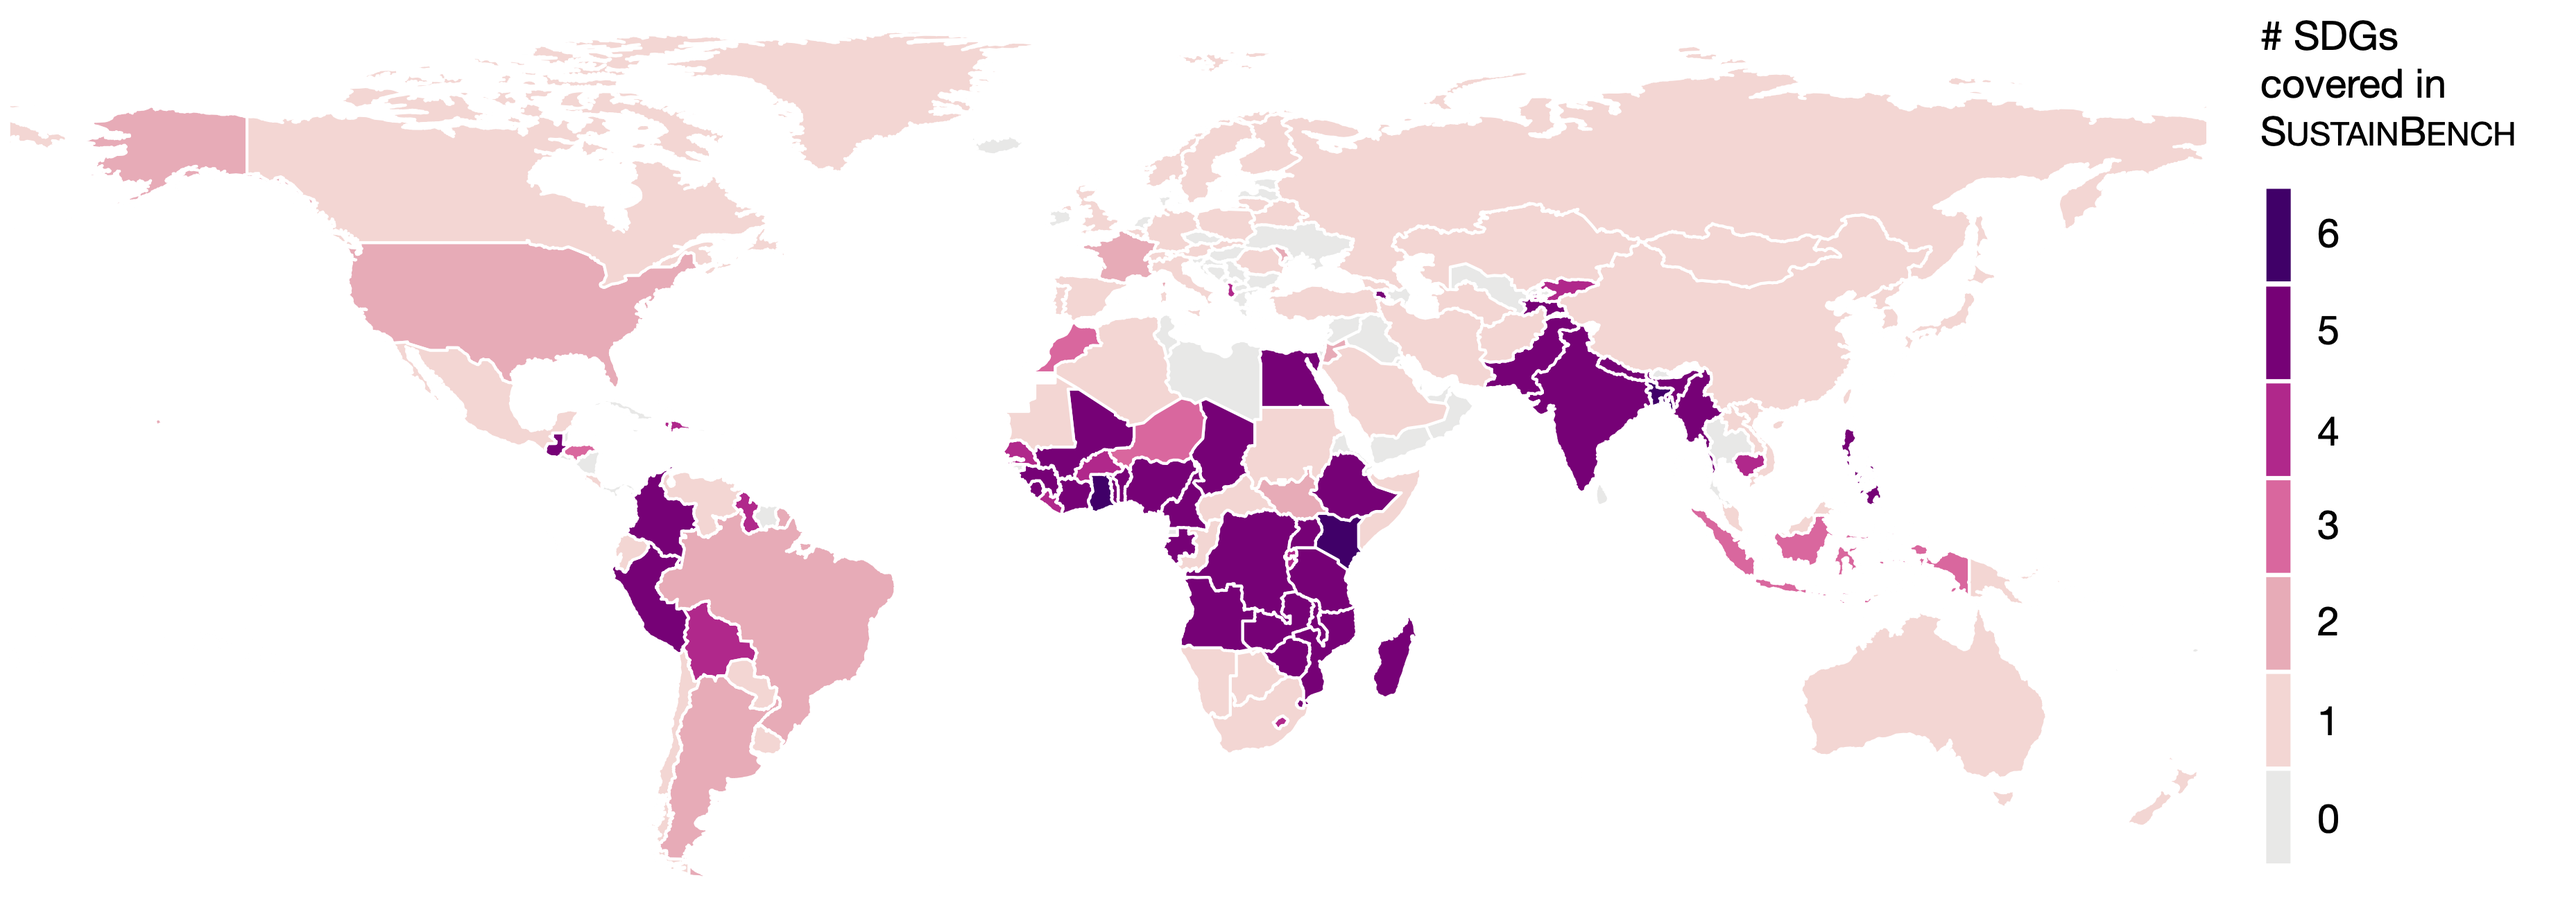
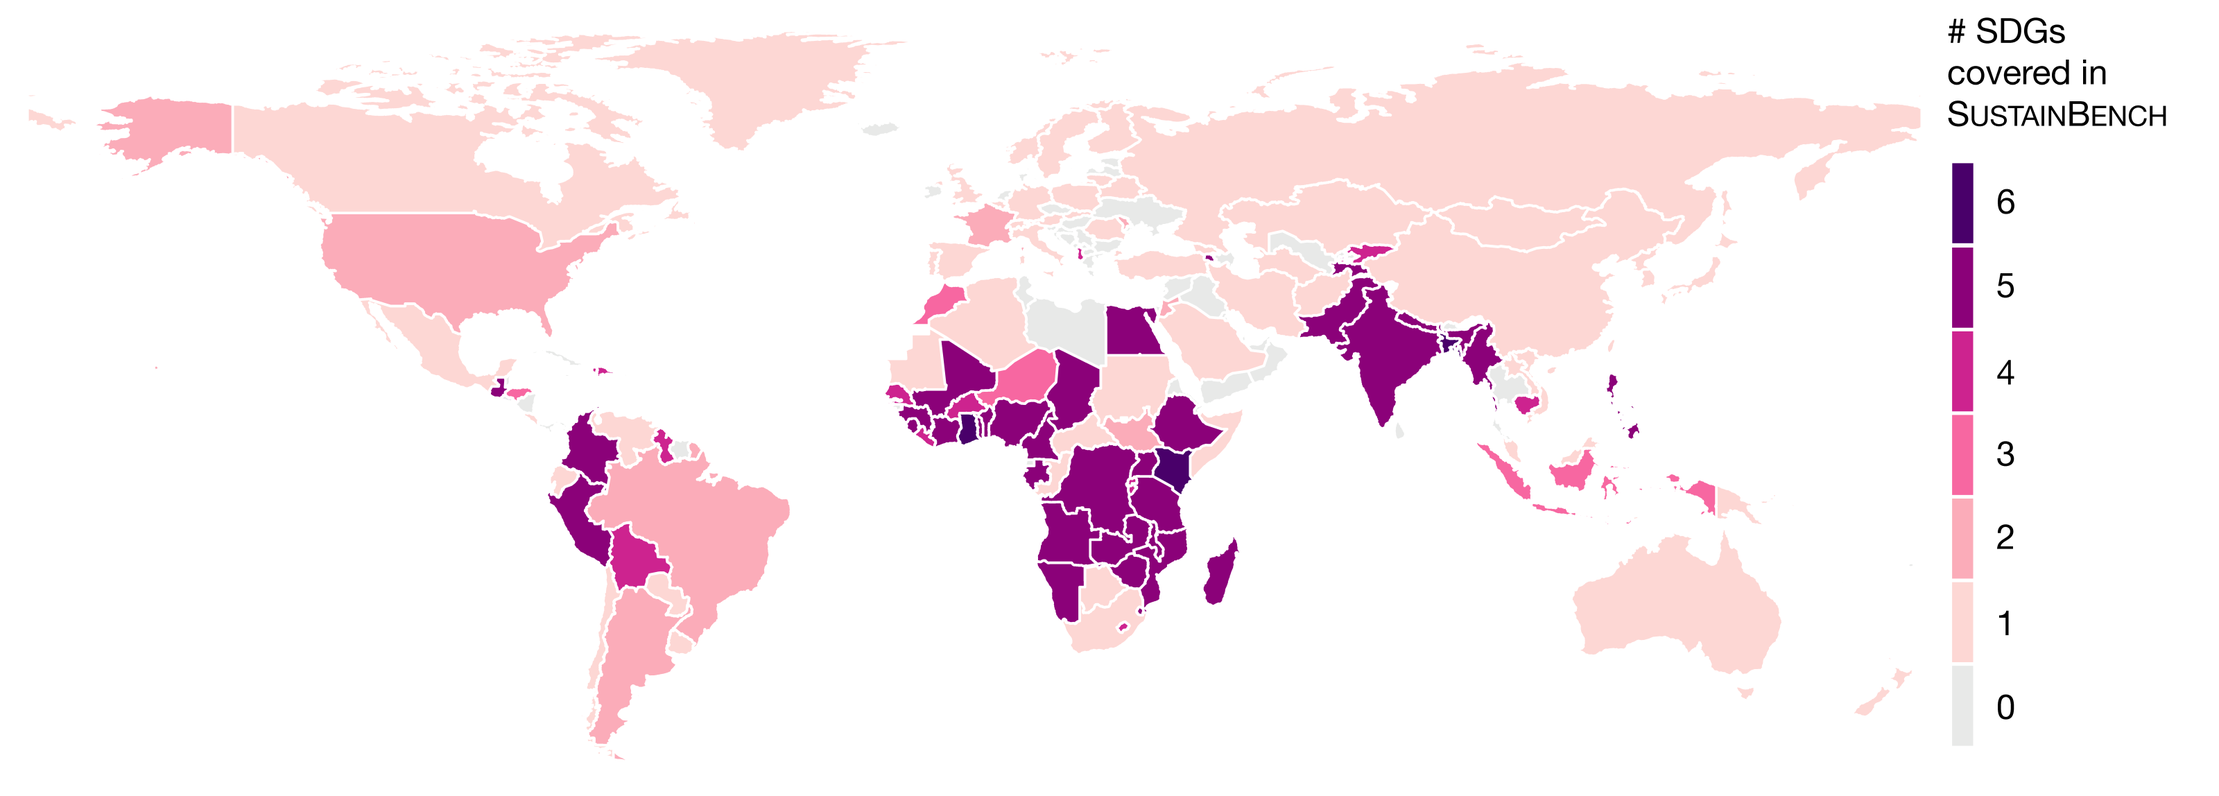
Update leaderboard, fig2, config files, homepage

diff --git a/leaderboard.md b/leaderboard.md
@@ -34,7 +34,7 @@ Jump to:
 ## Poverty prediction over space
 
 | Rank | Model | Satellite image inputs? | Street-level image inputs? | Test $$r^2$$ | Reference | Date | Code | Notes |
-|:-----|:------|:-------------|:----------|:-----|:-----|:------|
+|:-----|:------|:-----|:-----|:-----|:-----|:-----|:-----|:-----|
 | 1    | Baseline: KNN | Yes, mean (scalar) nightlights | No | 0.63 | SustainBench [[1](#references)] | 2021-08-27 | [link](https://github.com/sustainlab-group/sustainbench/blob/main/baseline_models/dhs/knn_baseline.ipynb)
 
 
@@ -47,86 +47,91 @@ Jump to:
 
 ## Weakly supervised cropland classification
 
-TODO
+| Rank | Model | Location | F1 score (pixel label) | F1 score (image label) | Reference | Date | Notes |
+|:-----|:------|:---------|:-----------------------|:-----------------------|:----------|:-----|:------|
+| 1    | U-Net | United States | 0.88 | 0.80 | [[11](#references)] | 2019-06-01 |
 
 
 ## Crop type classification
-
-TODO
-
-## Crop type mapping
+<!-- ## Crop type mapping -->
 
 | Rank | Model | Location | Macro F1 | Accuracy | Reference | Date | Notes |
-|:-----|:-----------------|:----------------|:-------------|:-----------------|:----------|:-----|:------|
-| 1    | Rustowicz et al. | Ghana | 57.3 | 60.9% | [[6](#references)] | 2019-06-01 | 
-| 1    | Rustowicz et al. | South Sudan | 69.7 | 85.3% | [[6](#references)] | 2019-06-01 | 
+|:-----|:------|:---------|:---------|:---------|:----------|:-----|:------|
+| 1    | Rustowicz et al. | Ghana       | 57.3 | 60.9% | [[6](#references)] | 2019-06-01 |
+| 1    | Rustowicz et al. | South Sudan | 69.7 | 85.3% | [[6](#references)] | 2019-06-01 |
+
 
 ## Crop yield prediction
 
 | Rank | Model | Train countries | Test country | Test RMSE (t/ha) | Reference | Date | Notes |
 |:-----|:------|:----------------|:-------------|:-----------------|:----------|:-----|:------|
-| 1    | You et al. | USA | USA | 0.37 | [[7](#references)] | 2021-08-27 | 
-| 1    | Wang et al. | Argentina | Argentina | 0.62 | [[6](#references)] | 2021-08-27 | 
-| 1    | Wang et al. | Argentina, Brazil | Brazil | 0.42 | [[6](#references)] | 2021-08-27 | 
+| 1    | You et al.  | USA               | USA       | 0.37 | [[7](#references)] | 2021-08-27 |
+| 1    | Wang et al. | Argentina         | Argentina | 0.62 | [[6](#references)] | 2021-08-27 |
+| 1    | Wang et al. | Argentina, Brazil | Brazil    | 0.42 | [[6](#references)] | 2021-08-27 |
 
 
 ## Field delineation
 
-| Rank | Model | Train country | Test country  | Test Dice score | Reference | Date | Code | Notes |
-|:-----|:------|:-------------|:----------|:-----|:-----|:------|
-| 1    | Aung et al. | France | France | 0.61 |[[3](#references)] | 2021-08-27 | [link](https://github.com/sustainlab-group/ParcelDelineation)
+| Rank | Model | Country | Test Dice score | Reference | Date | Code | Notes |
+|:-----|:------|:--------|:----------------|:----------|:-----|:-----|:------|
+| 1    | Aung et al. | France | 0.61 |[[3](#references)] | 2021-08-27 | [link](https://github.com/sustainlab-group/ParcelDelineation)
 
 
 ## Child mortality rate
 
 | Rank | Model | Satellite image inputs? | Street-level image inputs? | Test $$r^2$$ | Reference | Date | Code | Notes |
-|:-----|:------|:-------------|:----------|:-----|:-----|:------|
+|:-----|:------|:-----|:-----|:-----|:-----|:-----|:-----|:-----|
 | 1    | Baseline: KNN | Yes, mean (scalar) nightlights | No | 0.01 | SustainBench [[1](#references)] | 2021-08-27 | [link](https://github.com/sustainlab-group/sustainbench/blob/main/baseline_models/dhs/knn_baseline.ipynb)
+
 
 ## Women BMI
 
 | Rank | Model | Satellite image inputs? | Street-level image inputs? | Test $$r^2$$ | Reference | Date | Code | Notes |
-|:-----|:------|:-------------|:----------|:-----|:-----|:------|
-| 1    | Lee et al. | No | Yes | 0.57 (India) | [[8](#references)] | 2021-08-27 | [link](https://github.com/sustainlab-group/mapillarygcn)
-| 2    | Baseline: KNN | Yes, mean (scalar) nightlights | No | 0.42 | SustainBench [[1](#references)] | 2021-08-27 | [link](https://github.com/sustainlab-group/sustainbench/blob/main/baseline_models/dhs/knn_baseline.ipynb)
+|:-----|:------|:-----|:-----|:-----|:-----|:-----|:-----|:-----|
+| 1    | Baseline: KNN | Yes, mean (scalar) nightlights | No | 0.42 | SustainBench [[1](#references)] | 2021-08-27 | [link](https://github.com/sustainlab-group/sustainbench/blob/main/baseline_models/dhs/knn_baseline.ipynb)
+| **   | GCN (Lee et al.) | No | Yes | 0.57 (India) | [[8](#references)] | 2021-08-27 | [link](https://github.com/sustainlab-group/mapillarygcn) | This model was only trained and tested on India labels. |
 
 
 ## Women educational attainment
 
 | Rank | Model | Satellite image inputs? | Street-level image inputs? | Test $$r^2$$ | Reference | Date | Code | Notes |
-|:-----|:------|:-------------|:----------|:-----|:-----|:------|
+|:-----|:------|:-----|:-----|:-----|:-----|:-----|:-----|:-----|
 | 1    | Baseline: KNN | Yes, mean (scalar) nightlights | No | 0.26 | SustainBench [[1](#references)] | 2021-08-27 | [link](https://github.com/sustainlab-group/sustainbench/blob/main/baseline_models/dhs/knn_baseline.ipynb)
 
 
 ## Water quality index
 
 | Rank | Model | Satellite image inputs? | Street-level image inputs? | Test $$r^2$$ | Reference | Date | Code | Notes |
-|:-----|:------|:-------------|:----------|:-----|:-----|:------|
+|:-----|:------|:-----|:-----|:-----|:-----|:-----|:-----|:-----|
 | 1    | Baseline: KNN | Yes, mean (scalar) nightlights | No | 0.40 | SustainBench [[1](#references)] | 2021-08-27 | [link](https://github.com/sustainlab-group/sustainbench/blob/main/baseline_models/dhs/knn_baseline.ipynb)
 
 
 ## Sanitation index
 
 | Rank | Model | Satellite image inputs? | Street-level image inputs? | Test $$r^2$$ | Reference | Date | Code | Notes |
-|:-----|:------|:-------------|:----------|:-----|:-----|:------|
+|:-----|:------|:-----|:-----|:-----|:-----|:-----|:-----|:-----|
 | 1    | Baseline: KNN | Yes, mean (scalar) nightlights | No | 0.36 | SustainBench [[1](#references)] | 2021-08-27 | [link](https://github.com/sustainlab-group/sustainbench/blob/main/baseline_models/dhs/knn_baseline.ipynb)
 
 
 ## Brick kiln detection
 
-| Rank | Model | Train country | Test country | Test Accuracy | Reference | Date | Code | Notes |
-|:-----|:------|:-------------|:----------|:-----|:-----|:------|
-| ** (higher res imagery)    | Lee et al. | Bangladesh | Bangladesh | 94.2% | [[4](#references)] | 2021-08-27 | [link](https://dataverse.harvard.edu/dataset.xhtml?persistentId=doi:10.7910/DVN/HVGW8L)
+| Rank | Model | Country | Test Accuracy | Reference | Date | Code | Notes |
+|:-----|:------|:--------|:--------------|:----------|:-----|:-----|:------|
+| **   | Lee et al. | Bangladesh | 94.2% | [[4](#references)] | 2021-08-27 | [link](https://dataverse.harvard.edu/dataset.xhtml?persistentId=doi:10.7910/DVN/HVGW8L)| [[4](#references)] used higher res images
 
 
 ## Representation learning for land cover
 
-TODO(Sherrie)
+| Rank | Model | Country | Test Accuracy | Reference | Date | Code | Notes |
+|:-----|:------|:--------|:--------------|:----------|:-----|:-----|:------|
+| 1    | Tile2Vec with ResNet-50 | United States | 0.55 (n= 1,000) 0.58 (n= 10,000) | [[9](#references)] | 2021-08-27 | [link](https://github.com/ermongroup/tile2vec)
 
 
 ## Out-of-domain land cover classification
 
-TODO (Sherrie)
+| Rank | Model | Country | Test Kappa | Reference | Date | Notes |
+|:-----|:------|:--------|:-----------|:----------|:-----|:------|
+| 1    | MAML with shallow 1D CNN | Global | 0.32 (1-shot, 2-way) | [[10](#references)] | 2021-08-27 |
 
 
 ## References
@@ -141,8 +146,14 @@ TODO (Sherrie)
 
 [5] R. Rustowicz, R. Cheong, L. Wang, S. Ermon, M. Burke, and D. Lobell. Semantic segmentation of crop type in africa: A novel dataset and analysis of deep learning methods. InProceedings of the IEEE/CVF Conference on Computer Vision and Pattern Recognition (CVPR) Workshops, June 2019.
 
-[6] A. X. Wang, C. Tran, N. Desai, D. Lobell, and S. Ermon. Deep transfer learning for crop yield571prediction with remote sensing data. InProceedings of the 1st ACM SIGCAS Conference on Computing and Sustainable Societies, COMPASS ’18, New York, NY, USA, 2018. Association for Computing Machinery. ISBN 9781450358163. doi: 10.1145/3209811.3212707. URL [https://doi.org/10.1145/3209811.3212707](https://doi.org/10.1145/3209811.3212707).
+[6] A. X. Wang, C. Tran, N. Desai, D. Lobell, and S. Ermon. Deep transfer learning for crop yield prediction with remote sensing data. In Proceedings of the 1st ACM SIGCAS Conference on Computing and Sustainable Societies, COMPASS ’18, New York, NY, USA, 2018. Association for Computing Machinery. ISBN 9781450358163. doi: 10.1145/3209811.3212707. URL [https://doi.org/10.1145/3209811.3212707](https://doi.org/10.1145/3209811.3212707).
 
 [7] J. You, X. Li, M. Low, D. Lobell, and S. Ermon. Deep gaussian process for crop yield prediction591based on remote sensing data. 2017. URL [https://aaai.org/ocs/index.php/AAAI/592AAAI17/paper/view/14435](https://cs.stanford.edu/~ermon/papers/cropyield_AAAI17.pdf).
 
 [8] J. Lee, D. Grosz, B. Uzkent, S. Zeng, M. Burke, D. Lobell, and S. Ermon. Predicting Livelihood Indicators from Community-Generated Street-Level Imagery. Proceedings of the AAAI Conference on Artificial Intelligence, 35(1):268–276, 5 2021. ISSN 2374-3468. URL [https://ojs.aaai.org/index.php/AAAI/article/view/16101](https://ojs.aaai.org/index.php/AAAI/article/view/16101).
+
+[9] N. Jean, S. Wang, A. Samar, G. Azzari, D. Lobell, and S. Ermon. Tile2vec: Unsupervised representation learning for spatially distributed data. Proceedings of the AAAI Conference on Artificial Intelligence, 33(01):3967–3974, Jul. 2019. URL [https://arxiv.org/abs/1805.02855](https://arxiv.org/abs/1805.02855)
+
+[10] S. Wang, M. Rußwurm, M. Körner, and D. B. Lobell. Meta-learning for few-shot time series classification. In IGARSS 2020 - 2020 IEEE International Geoscience and Remote Sensing Symposium, pages 7041–7044, 2020. doi: 10.1109/IGARSS39084.2020.9441016. URL [https://ieeexplore.ieee.org/document/9441016](https://ieeexplore.ieee.org/document/9441016)
+
+[11] S. Wang, W. Chen, S. M. Xie, G. Azzari, and D. B. Lobell. Weakly supervised deep learning for segmentation of remote sensing imagery.Remote Sensing, 12(2), 2020. URL [https://www.mdpi.com/2072-4292/12/2/207](https://www.mdpi.com/2072-4292/12/2/207)

diff --git a/index.md b/index.md
@@ -6,12 +6,13 @@ layout: home
 title: Home
 nav_order: 1
 ---
+
 # SustainBench
 {: .fs-9 }
 
-A suite of sustainability benchmarks targetting the UN Sustainable Development Goals (SDGs) including Poverty, Agriculture, Health, Education, Water and Sanitation, Climate Action, and Life on Land.
+A suite of sustainability benchmarks targeting the UN Sustainable Development Goals (SDGs) including No Poverty, Zero Hunger, Good Health and Well-Being, Quality Education, Clean Water and Sanitation, Climate Action, and Life on Land.
 {: .fs-6 .fw-300 }
 
-<img src="{{ site.baseurl }}/assets/images/fig2.png" width="800" title="Map of Number of SDGs Covered.">
+<img src="{{ site.baseurl }}/assets/images/fig2.png" width="800" title="Map of Number of SDGs Covered">
 
-[Read the Paper](http://sustain.stanford.edu){: .btn .btn-primary .fs-5 .mb-4 .mb-md-0 .mr-2 } [View it on GitHub](https://github.com/sustainlab-group/sustainbench/){: .btn .fs-5 .mb-4 .mb-md-0 }
+[Read the Paper](https://openreview.net/forum?id=5HR3vCylqD){: .btn .btn-primary .fs-5 .mb-4 .mb-md-0 .mr-2 } [View it on GitHub](https://github.com/sustainlab-group/sustainbench/){: .btn .fs-5 .mb-4 .mb-md-0 }
